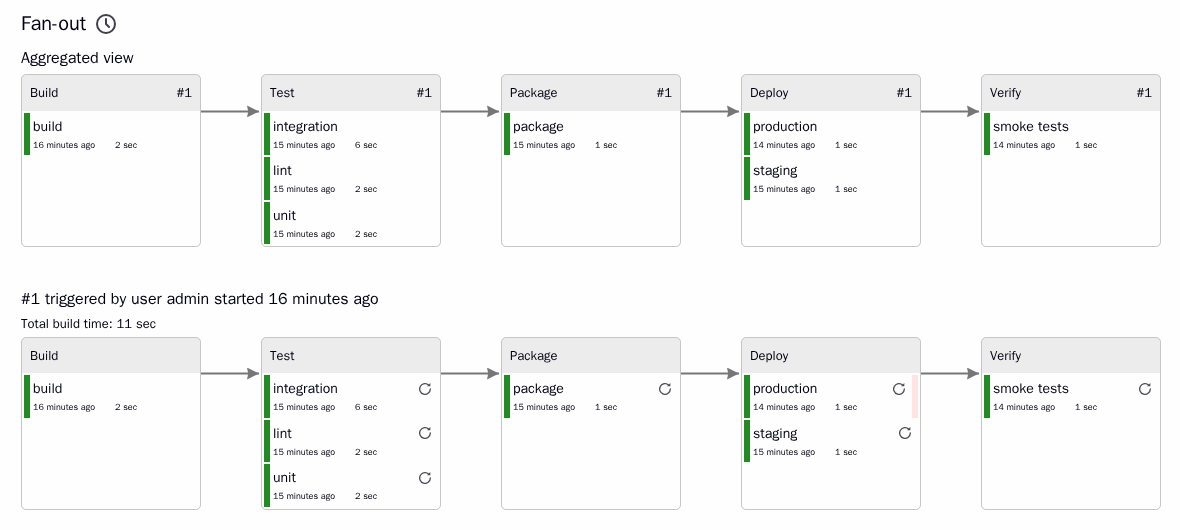
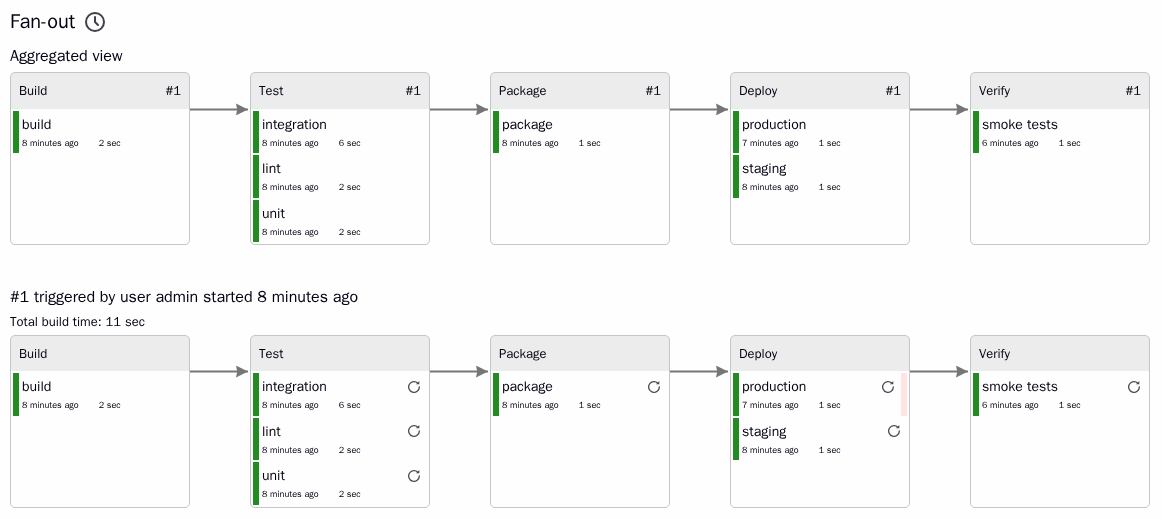
Refresh the screenshots for 2.0 and add the dark theme
The README image of the fan-out chain is recaptured from the 2.0 board on
Jenkins 2.568, joined by the same board in the dark theme, and by a
Declarative Pipeline component in both themes, whose newest run was
restarted from its Deploy stage and whose first run waited at an input step.
The help image of the job property, a 1.x stage box from 2014, becomes one
stage of the 2.0 board with its three tasks.

The screenshot script captures the boards themselves, clipped to the stage
boxes they draw, in both themes, so no cropping is needed.

diff --git a/docker/screenshots.py b/docker/screenshots.py
@@ -64,12 +64,31 @@ with sync_playwright() as p:
         page.screenshot(path=os.path.join(OUT, shot + '.png'), full_page=False)
         print('captured', shot)
     context.close()
-    # a wide light capture of the fan-out chain, the source of the README screenshot
-    wide = browser.new_context(viewport={'width': 1900, 'height': 1000}, color_scheme='light')
-    page = wide.new_page()
-    login(page)
-    shoot(page, f'{URL}/job/demo/view/Fan-out/', 'wide-fanout', full_page=False)
-    wide.close()
+    # the boards themselves, without the Jenkins frame and clipped to what they draw, in both themes: the sources
+    # of the README images. The fan-out chain whole, the first component of the Pipelines board (a Declarative run
+    # with parallel stages and an input gate), and one stage with its tasks for the help of the job property.
+    def board(page, url, name, selector):
+        page.goto(url)
+        settle(page)
+        target = page.locator(selector).first
+        box = target.bounding_box()
+        extent = target.evaluate("""element => {
+            const stages = Array.from(element.querySelectorAll('.stage')).map(e => e.getBoundingClientRect());
+            const all = Array.from(element.querySelectorAll('.stage, h1, h2, h3')).map(e => e.getBoundingClientRect());
+            return {right: Math.max(...stages.map(b => b.right)), bottom: Math.max(...all.map(b => b.bottom))};
+        }""")
+        page.screenshot(path=os.path.join(OUT, name + '.png'), clip={
+            'x': box['x'], 'y': box['y'], 'width': extent['right'] - box['x'] + 12, 'height': extent['bottom'] - box['y'] + 12})
+        print('captured', name)
+
+    for scheme in ('light', 'dark'):
+        wide = browser.new_context(viewport={'width': 1900, 'height': 1000}, color_scheme=scheme)
+        page = wide.new_page()
+        login(page)
+        board(page, f'{URL}/job/demo/view/Fan-out/', f'board-fanout-{scheme}', '.dpp-view')
+        page.locator('.stage_Test').first.screenshot(path=os.path.join(OUT, f'board-stage-{scheme}.png'))
+        board(page, f'{URL}/job/demo/view/Pipelines/', f'board-pipelines-{scheme}', 'section.pipeline-component')
+        wide.close()
     phone = browser.new_context(viewport={'width': 430, 'height': 932}, device_scale_factor=2, is_mobile=True, has_touch=True)
     page = phone.new_page()
     login(page)

diff --git a/README.md b/README.md
@@ -16,7 +16,18 @@ component `delivery-pipeline-plugin`.
 
 This plugin was contributed to the community by [Diabol AB](https://www.diabol.se).
 
-![Delivery Pipeline view](docs/dpp_screenshot.png)
+![A chain of jobs on a Delivery Pipeline view](docs/dpp_screenshot.png)
+
+The same board follows the Jenkins dark theme:
+
+![The same chain in the dark theme](docs/dpp_screenshot_dark.png)
+
+A Pipeline job on the same kind of view: the newest run was restarted from its Deploy stage, so the stages before it
+were not built, and the run before it waited at an input step in its Approve stage.
+
+![A Pipeline job on a Delivery Pipeline view](docs/dpp_pipelines.png)
+
+![The same Pipeline job in the dark theme](docs/dpp_pipelines_dark.png)
 
 Version 2.0
 -----------
